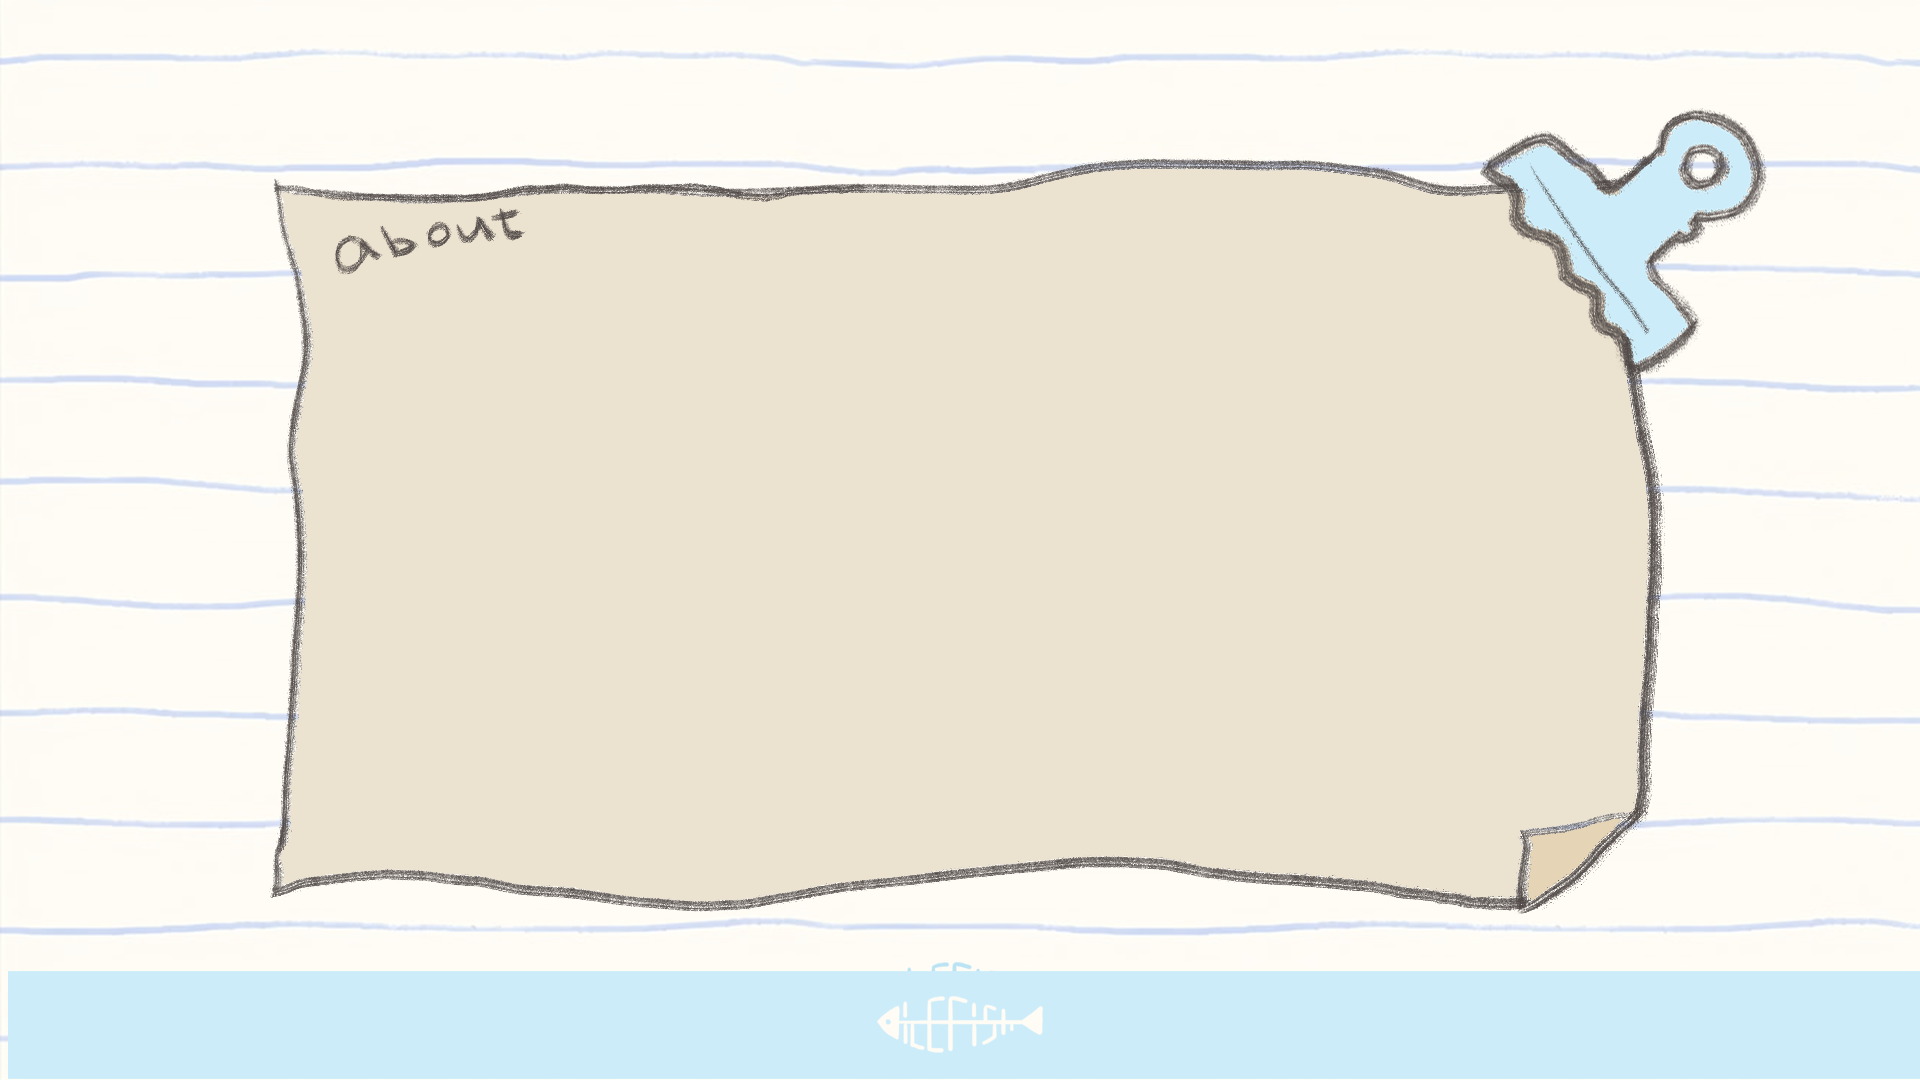
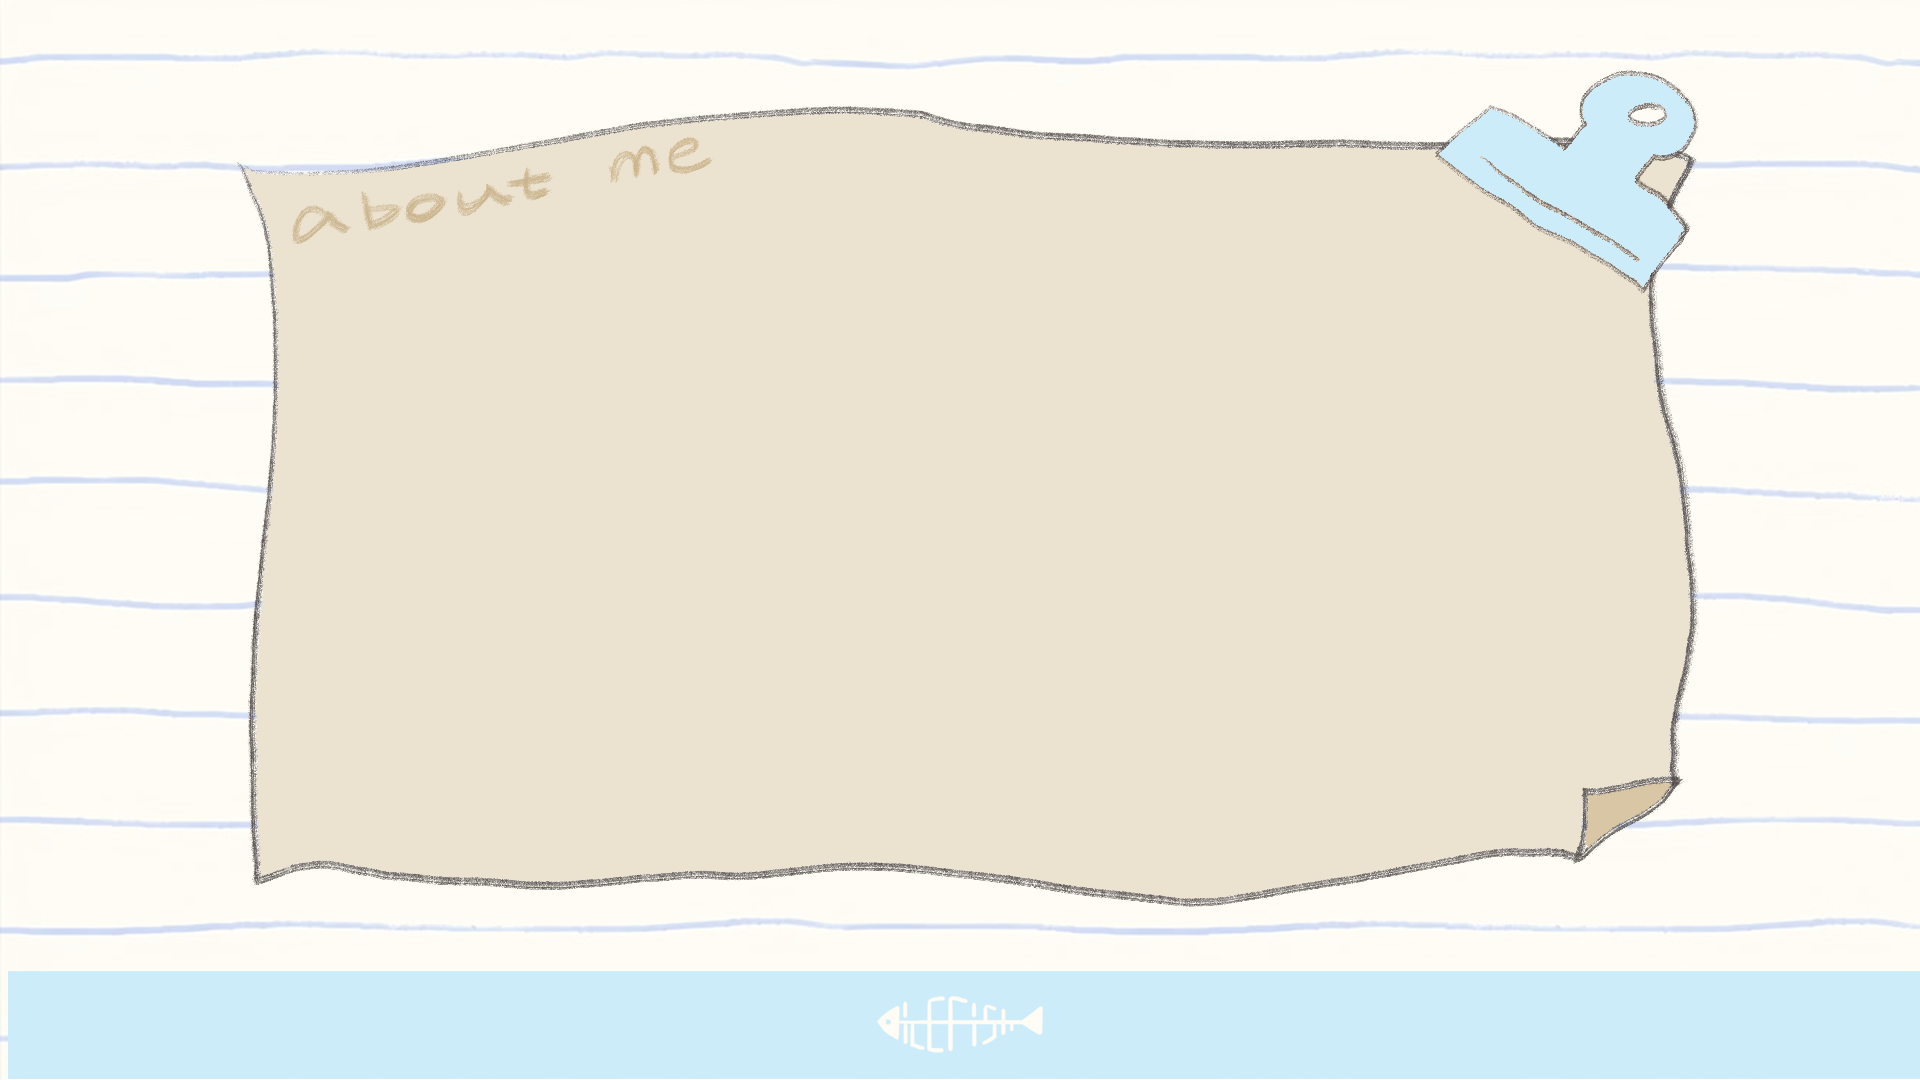
change about page background and text

Changed region(s): [[0.125, 0.0611, 0.9375, 0.8556]]

diff --git a/about.html b/about.html
@@ -271,14 +271,14 @@
             <div class="about-text">
 
                 <p>
-                    你好，我是 Icefish。
-                    这里可以写你的个人介绍。
-                    你可以介绍自己的学习方向、
-                    喜欢的创作方式、
-                    对设计、影像、AI或者数字媒体的理解。
-                    这里也可以写一些比较个人化的内容，
-                    让别人通过这个页面认识你。
-                    这一部分的文字长度之后可以慢慢调整。
+
+                    我很难用一种固定的风格来定义自己。
+                    我喜欢干净克制的画面，也会被浓烈、复杂甚至带有冲突感的视觉吸引；喜欢安静细腻的表达，也对荒诞、夸张的想象保持好奇。对我来说，这些看似不同的美并不矛盾，比起简单的喜欢或不喜欢，我更在意它们为什么成立，以及它们如何通过色彩、构图和节奏传递情绪。
+                    因此，我并没有刻意追求一个“可被识别的风格”。
+                    我更在意表达是否准确。绘画、动画、影像、三维或网页，对我来说只是不同的表达方式。当一个想法需要安静，它就以安静的方式存在；当它需要陌生或复杂的形式，我也愿意去尝试。
+                    我想做的不是找到一个固定答案，而是在不断接触不同视觉语言的过程中，形成自己的判断方式。
+                    也许我的风格并不是某种具体的形式，而是一种选择的方式——在不同媒介之间移动，并找到最适合表达的形状。
+
                 </p>
 
             </div>
